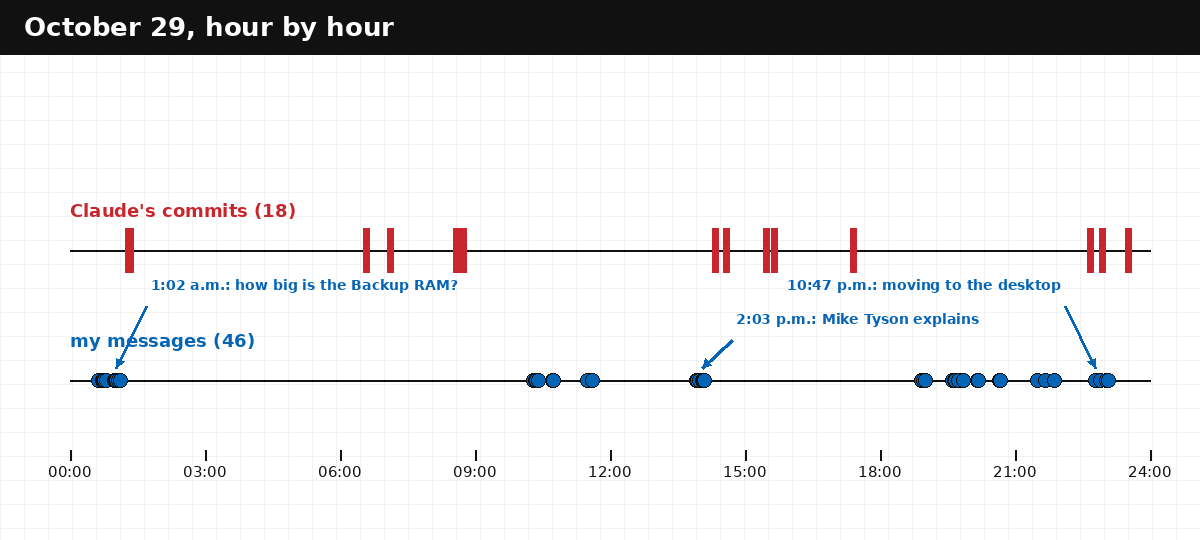
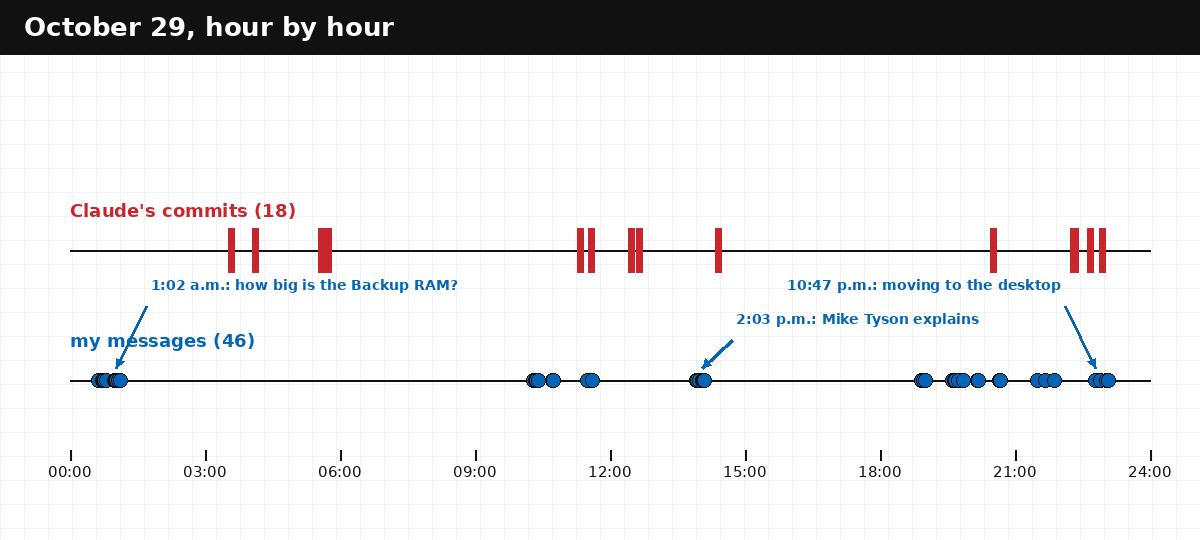
Days 9-12: commit times converted from UTC to Brasília time
Commits from Oct 27 on were recorded in UTC (WSL/VM clock).

Claude-Session: https://claude.ai/code/session_01EjuttiuzAE5V9cq2a98gvd

diff --git a/src/ilus_dia12.py b/src/ilus_dia12.py
@@ -4,7 +4,7 @@ from ilus import *
 
 
 def tempo():
-    C = ("01:18 01:20 06:35 06:35 07:07 08:35 08:36 08:45 08:45 14:20 14:35 15:29 15:39 15:39 17:25 22:41 22:57 23:31").split()
+    C = "03:35 03:35 04:07 05:35 05:36 05:45 05:45 11:20 11:35 12:29 12:39 12:39 14:25 20:31 22:18 22:20 22:41 22:57".split()
     F = ("00:38 00:43 00:45 00:46 00:49 00:59 01:00 01:02 01:04 01:05 01:07 10:18 10:21 10:22 10:25 10:43 10:45 "
          "11:30 11:36 13:55 13:57 13:59 14:03 14:05 14:06 18:55 18:58 19:01 19:36 19:37 19:39 19:41 19:44 19:51 "
          "20:10 20:11 20:39 20:40 20:41 21:30 21:40 21:52 22:47 22:54 23:02 23:04").split()

diff --git a/src/ilus_dia9.py b/src/ilus_dia9.py
@@ -2,7 +2,7 @@
 """Ilustrações do post 10 (dia 9, 26/10)."""
 from ilus import *
 
-C = ["02:46"]
+C = ["23:46"]
 F = ("00:19 00:54 00:58 01:01 01:03 13:26 13:37 13:53 14:09 15:04 15:16 15:21 15:26 16:56 17:01 17:04 "
      "17:10 17:40 17:45 17:49 17:57 17:58 19:04 19:08 19:26 19:33 20:38 20:53 20:54 20:55 21:00 21:02 "
      "21:03 21:04 21:06 21:08 21:20 21:23 21:25 21:36 21:40 21:45 21:46 21:47 21:50 21:56 21:59 22:07 22:11").split()

diff --git a/src/ilus_dia11.py b/src/ilus_dia11.py
@@ -24,7 +24,7 @@ def pastas():
 
 
 def tempo():
-    C = "03:43 04:39 04:45 06:27".split()
+    C = "00:43 01:39 01:45 03:27".split()
     F = "00:34 01:14 01:26 01:32 01:34 01:37 01:39 01:41 02:54 09:49 17:47 17:49 17:53 19:16".split()
     linha_do_tempo("102-dia11-linha-do-tempo.png", "October 28, hour by hour", C, F,
                    notas=[("01:41", "1:41 a.m.: code first, then the name", "l"),

diff --git a/src/ilus_dia10.py b/src/ilus_dia10.py
@@ -2,7 +2,7 @@
 """Ilustrações do post 11 (dia 10, 27/10)."""
 from ilus import *
 
-C = ("02:48 04:03 04:25 04:58 05:06 05:09 05:43 12:20 14:50 15:10 16:27 17:51 18:40").split()
+C = "01:03 01:25 01:58 02:06 02:09 02:43 09:20 11:50 12:10 13:27 14:51 15:40 23:48".split()
 F = "08:14 09:54 13:46 16:19 16:22 16:27 16:48 17:57 18:16 18:19 19:24 23:44 23:46 23:50 23:53".split()
 
 

diff --git a/posts/012-day-eleven.md b/posts/012-day-eleven.md
@@ -7,21 +7,21 @@ excerpt: "The folder gets reorganized overnight, the compression work lands, cha
 status: draft
 ---
 
-After the cleanup started, October 28 was a day of closing things. Four commits reached the main build, all of them before 7 a.m., and most of my messages were about what to close next.
+After the cleanup started, October 28 was a day of closing things. Four commits reached the main build, all of them before 4 a.m., and most of my messages were about what to close next.
 
 ![](../imagens/102-dia11-linha-do-tempo.png)
 *October 28. Claude worked overnight; I mostly asked questions and gave orders.*
 
 ## A folder you can read
 
-The request from the night before got done at 3:43 a.m.: the whole project folder reorganized, with numbers in front of the names so they sort in the order you use them. Disc, inputs, tools, the main build, the side tasks, previews, audio, references.
+The request from the night before got done at 12:43 a.m.: the whole project folder reorganized, with numbers in front of the names so they sort in the order you use them. Disc, inputs, tools, the main build, the side tasks, previews, audio, references.
 
 ![](../imagens/101-pastas.png)
 *Not a screenshot: a reconstruction. On the left, folder names that appear in the chat history from that week.*
 
 ## Why compression, again
 
-At 1:26 a.m. I asked whether the compression chat had finished or left loose ends, and reminded it why it existed: it was created to make the warg fit without cutting animation frames. At 4:45 a.m. its work was merged into the main build: the smaller format for loading, the faster one for whatever unpacks during gameplay.
+At 1:26 a.m. I asked whether the compression chat had finished or left loose ends, and reminded it why it existed: it was created to make the warg fit without cutting animation frames. At 1:45 a.m., twenty minutes later, its work was merged into the main build: the smaller format for loading, the faster one for whatever unpacks during gameplay.
 
 At 1:41 a.m. I also made a small rule that stuck. Each prompt I send to a chat starts with its title, and in the title the code comes before the long name. With a dozen chats open, I needed to find things by code.
 

diff --git a/posts/011-day-ten.md b/posts/011-day-ten.md
@@ -21,14 +21,14 @@ Overnight, the optimization chat I had opened the day before measured something 
 
 Smaller data also means more rooms fit in each group of rooms kept in memory, and fewer groups means fewer pauses to read the CD. With the smallest format, the whole castle went from 153 groups to 134.
 
-The catch is time. The smallest formats are slower to unpack, and some things get unpacked in the middle of gameplay. At 8:14 a.m. I told Claude to go ahead with one of the candidates; by the afternoon it had become the only format in the game; and at 5:51 p.m. part of that was undone. Whatever gets unpacked mid-game, like enemy frames and Alucard himself, went back to the faster format. The smaller one stayed for loading.
+The catch is time. The smallest formats are slower to unpack, and some things get unpacked in the middle of gameplay. At 8:14 a.m. I told Claude to go ahead with one of the candidates; by noon it had become the only format in the game; and at 2:51 p.m. part of that was undone. Whatever gets unpacked mid-game, like enemy frames and Alucard himself, went back to the faster format. The smaller one stayed for loading.
 
 ## Flicker
 
 At 1:46 p.m. I wrote that with one warg and two zombies on screen, the sprites blinked. At 4:22 p.m. the game was much more fluid, but with Alucard, a warg and two zombies at the same height, there was a lot of flicker. That's the sixteen-sprites-per-line limit again, and the rotation that makes the leftover sprite blink instead of disappearing. It was the safety net working as designed, and it still looked bad.
 
 ![](../imagens/99-espada-2710.gif)
-*Alucard swinging the prologue sword in the first room, in the 5:51 p.m. build rebuilt from that commit.*
+*Alucard swinging the prologue sword in the first room, in the 2:51 p.m. build rebuilt from that commit.*
 
 ![](../imagens/98-sala0-20-x-27.png)
 *The first room a week apart. Left: October 20, colors rounded one by one. Right: October 27, with the area's color plan. Not the same spot: the starting position changed between builds.*

diff --git a/posts/013-day-twelve.md b/posts/013-day-twelve.md
@@ -19,7 +19,7 @@ At 1:02 a.m. I asked what I called a crazy question: how much space is there in 
 ![](../imagens/104-bram.png)
 *The two ways of saving, side by side.*
 
-By 3:29 p.m. the port had a provisional title with NEW GAME and CONTINUE, and loaded the save from the Backup RAM. At 2:05 p.m. I had checked what goes into it besides HP, the saved room, the open doors, the level and the gold. The answer was that it covers everything; the only difference from the original is that just one save fits.
+By 12:29 p.m. the port had a provisional title with NEW GAME and CONTINUE, and loaded the save from the Backup RAM. At 2:05 p.m. I checked what goes into it besides HP, the saved room, the open doors, the level and the gold. The answer was that it covers everything; the only difference from the original is that just one save fits.
 
 ## The battery
 
@@ -27,10 +27,10 @@ That night I had opened two new tasks, one for the save and one for a pause menu
 
 ## The menu that reloaded itself
 
-At 1:55 p.m. I was testing the menu, and it still wasn't right, especially in the relics list: any movement of the cursor redrew the whole list. By 5:25 p.m. the list only scrolled a whole line when the cursor left the eleven visible lines.
+At 1:55 p.m. I was testing the menu, and it still wasn't right, especially in the relics list: any movement of the cursor redrew the whole list. Half an hour later, at 2:25 p.m., the list only scrolled a whole line when the cursor left the eleven visible lines.
 
 ![](../imagens/106-menu-2910.png)
-*The pause menu in the 5:25 p.m. build, rebuilt from that commit. The layout and frames follow the design I attached on October 24, with the original game's fonts.*
+*The pause menu in the 2:25 p.m. build, rebuilt from that commit. The layout and frames follow the design I attached on October 24, with the original game's fonts.*
 
 ![](../imagens/107-menu-cursor.gif)
 *Opening the menu and moving the cursor, same build.*
